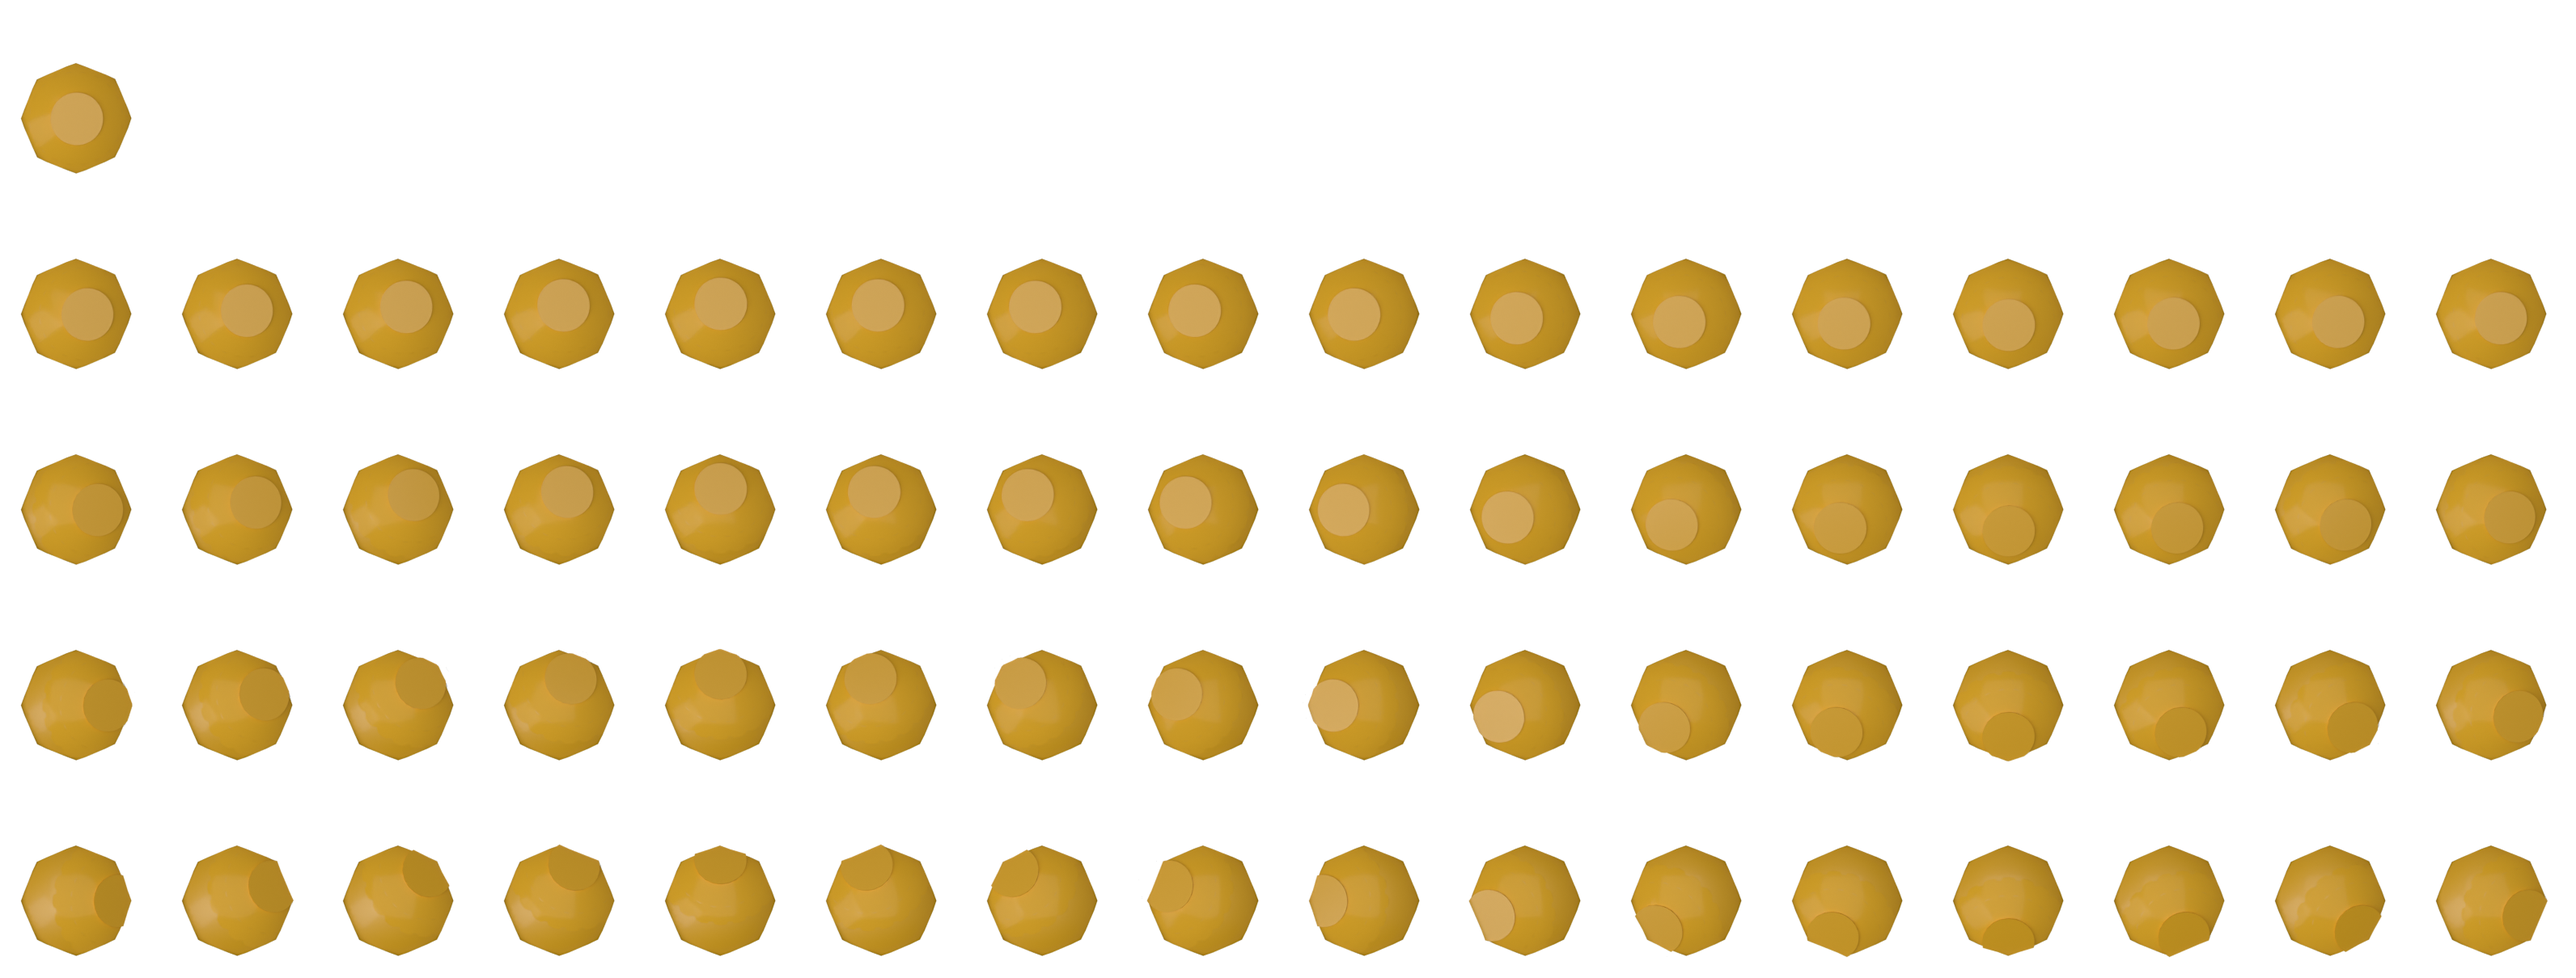
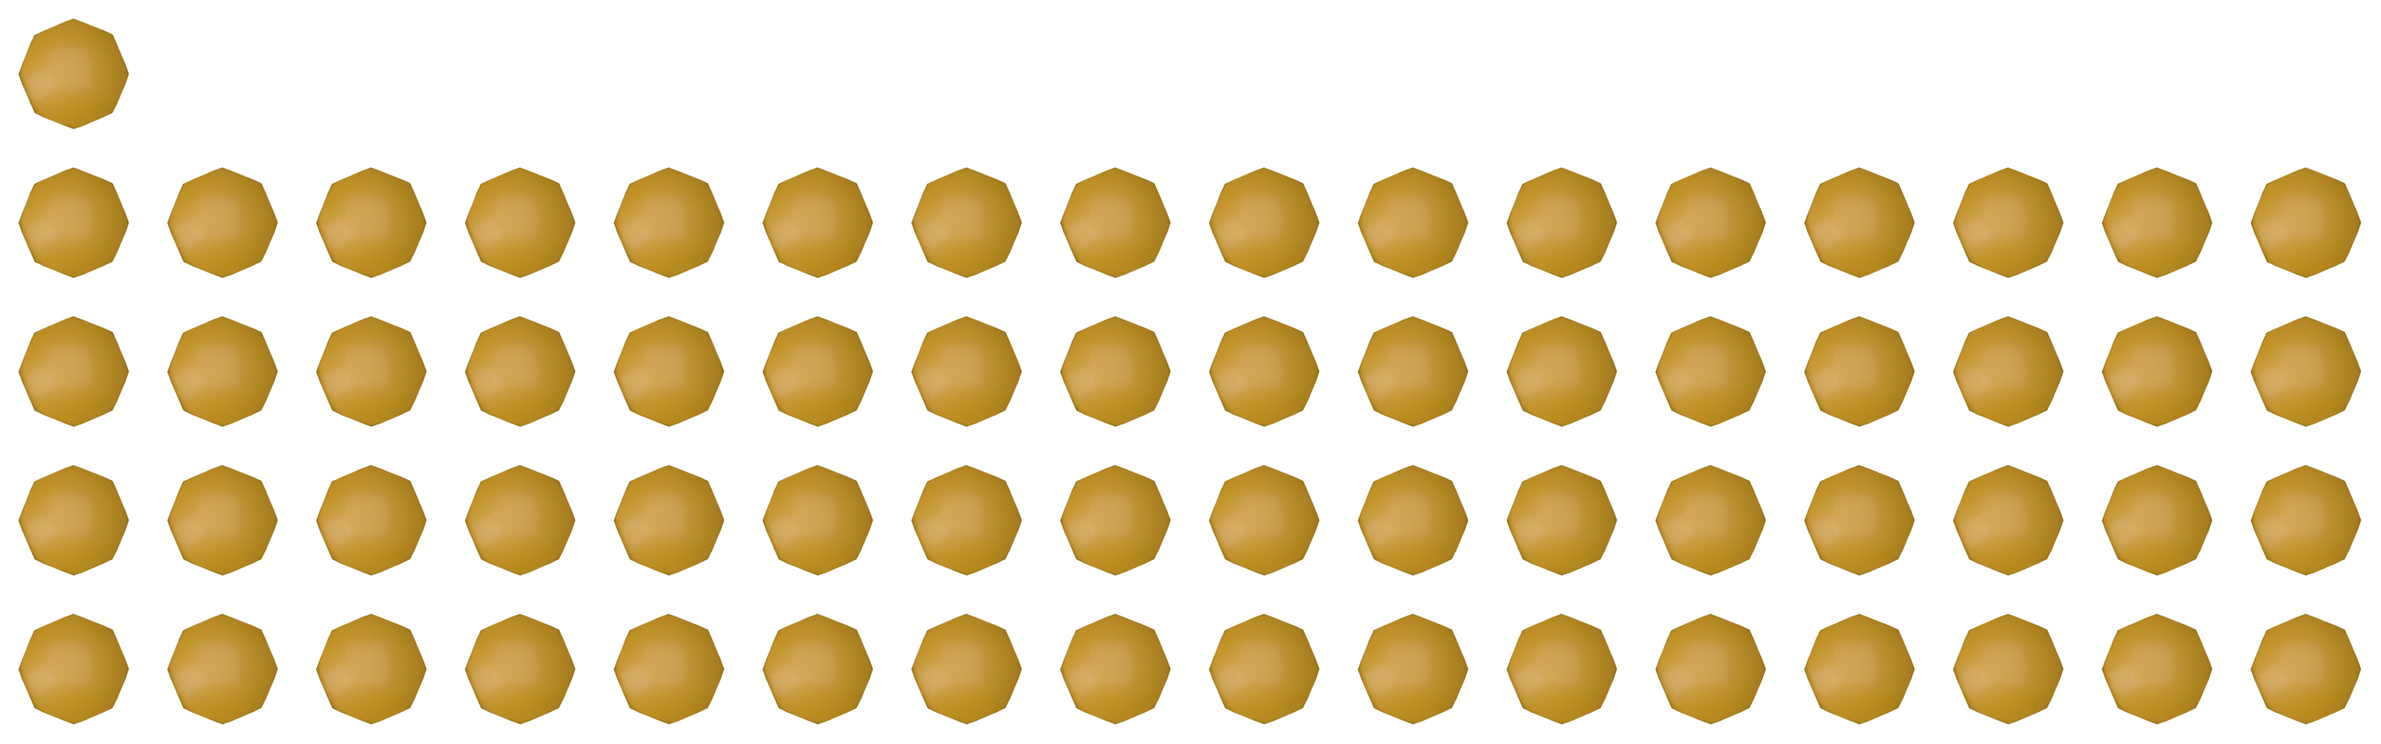
Settings: sticks on one smooth sphere, with no shadows to flicker
Under each cap the frames showed the model's own faceted skirt patched onto
the sphere added below it, shaded unevenly where they met, and the shadows of
the stick on the body changed from frame to frame, so blending frames made
them flicker. render_top.py now renders one whole sphere per stick (centred on
its pivot, meeting the stem where it starts), the cap without its skirt, and
the body as a holdout (it still hides what the shell covers, with nothing drawn
on it): the dome layer is the same in every frame and only the cap moves.
Settings also draws the sticks this way when they are still, instead of the
whole picture, whose model domes looked different from the moving ones.

diff --git a/tools/padconfig/art/render_top.py b/tools/padconfig/art/render_top.py
@@ -174,7 +174,6 @@ others = [o for o in scene.objects if o.type == 'MESH' and o not in caps.values(
 # sticks/tops.txt. "sticks-test": a few of those frames only. "sticks-tops": no render; writes sticks/tops.txt, where the top of the cap
 # (its middle, at its highest point) is in the picture's pixels in each frame, for art/hotspots.inc (kStickTops).
 CUT_Z = {"main": 21.3, "c": 19.55}  # just above each skirt (it ends at 21.15 and 19.38; the stems go on to 22.5 and 20.8)
-STEM_R = {"main": 1.4, "c": 1.68}  # the stems' radii
 DIRECTIONS, RINGS, MOST_TILT = 16, 4, 25.0
 
 def dome_centre(cap):
@@ -202,8 +201,9 @@ def complete_dome(key, root, radius, cap_bottom):
     bm = bmesh.new()
     bmesh.ops.create_uvsphere(bm, u_segments=96, v_segments=64, radius=radius - 0.03)
     lowest = root.z + (radius - 0.03) * math.cos(math.radians(DOME_REACH)) - root.z
-    keep_top = cap_bottom + 0.8 - root.z  # tucked up under the model's own dome (just inside it): no seam between them
-    bmesh.ops.delete(bm, geom=[v for v in bm.verts if v.co.z > keep_top or v.co.z < lowest], context="VERTS")
+    # The whole sphere down to DOME_REACH: in the stick frames it replaces the model's own low, faceted skirt (one smooth
+    # ball, the same from above at every tilt, so the frames have nothing that changes on it).
+    bmesh.ops.delete(bm, geom=[v for v in bm.verts if v.co.z < lowest], context="VERTS")
     bm.to_mesh(me)
     bm.free()
     dome = bpy.data.objects.new("dome_" + key, me)
@@ -270,55 +270,35 @@ def stick_frames():
                       (min(c.y for c in disc) + max(c.y for c in disc)) / 2.0, hi))
         top_local[key] = cap.matrix_world.inverted() @ top
         print("TOP", key, tuple(round(v, 2) for v in top), len(disc), "vertices")
-    # Each cap in two parts, cut across its stem just above the flared skirt it stands on (model units above the root at
-    # rest): the skirt, wider than the top and meeting the dome, goes into the dome layer, which is drawn where it is;
-    # the stem and the top into the cap layer, which is moved onto the stick's top. Seen from above, the top covers the cut.
-    # A material each that shows one part (the other transparent): object coordinates, so the cut turns with the cap.
-    part_mats = {}
+    # Each cap without its skirt: cut across its stem just above the skirt (model units above the root at rest; the
+    # dome's sphere meets the stem there), the part below a holdout. Object coordinates, so the cut turns with the cap.
+    top_mats = {}
     for key, cap in caps.items():
         inverse = cap.matrix_world.inverted()
         point = inverse @ Vector((domes_wanted[key][0].x, domes_wanted[key][0].y, CUT_Z[key]))
         normal = (inverse.to_3x3() @ Vector((0.0, 0.0, 1.0))).normalized()
-        part_mats[key] = {}
-        for part in ("skirt", "top"):
-            m = stick_mat.copy()
-            m.name = "Stick %s %s" % (key, part)
-            nodes, links = m.node_tree.nodes, m.node_tree.links
-            out_node = nodes["Material Output"]
-            surface = out_node.inputs["Surface"].links[0].from_socket
-            coords = nodes.new("ShaderNodeTexCoord")
-            dot = nodes.new("ShaderNodeVectorMath")
-            dot.operation = "DOT_PRODUCT"
-            dot.inputs[1].default_value = normal
-            links.new(coords.outputs["Object"], dot.inputs[0])
-            above = nodes.new("ShaderNodeMath")
-            above.operation = "GREATER_THAN"
-            links.new(dot.outputs["Value"], above.inputs[0])
-            above.inputs[1].default_value = normal.dot(point)
-            mix = nodes.new("ShaderNodeMixShader")
-            # Cut away: transparent in the dome layer (the top above the skirt); a holdout in the cap layer, so nothing behind
-            # the skirt (the shadow inside it) shows through.
-            clear = nodes.new("ShaderNodeBsdfTransparent" if part == "skirt" else "ShaderNodeHoldout")
-            links.new(above.outputs["Value"], mix.inputs["Fac"])
-            # Fac 1 (above the cut) takes the second shader.
-            links.new(surface if part == "skirt" else clear.outputs[0], mix.inputs[1])
-            links.new(clear.outputs[0] if part == "skirt" else surface, mix.inputs[2])
-            links.new(mix.outputs[0], out_node.inputs["Surface"])
-            part_mats[key][part] = m
-    # The cut stem is open: in the dome layer a lid closes it, so where the cap layer is moved a little off its frame the
-    # stick's own colour shows round the stem, not the dark inside.
-    lids = {}
-    for key in caps:
-        root = domes_wanted[key][0]
-        bpy.ops.mesh.primitive_circle_add(vertices=48, fill_type="NGON", radius=STEM_R[key] + 0.02,
-                                          location=(root.x, root.y, CUT_Z[key]))
-        lid = bpy.context.active_object
-        lid.data.materials.append(domes[key].data.materials[0])  # the dome's: the plastic's plain colour
-        lid.visible_shadow = False
-        world = lid.matrix_world.copy()
-        lid.parent, lid.parent_type, lid.parent_bone = rig, "BONE", key
-        lid.matrix_world = world
-        lids[key] = lid
+        m = stick_mat.copy()
+        m.name = "Stick %s top" % key
+        nodes, links = m.node_tree.nodes, m.node_tree.links
+        out_node = nodes["Material Output"]
+        surface = out_node.inputs["Surface"].links[0].from_socket
+        coords = nodes.new("ShaderNodeTexCoord")
+        dot = nodes.new("ShaderNodeVectorMath")
+        dot.operation = "DOT_PRODUCT"
+        dot.inputs[1].default_value = normal
+        links.new(coords.outputs["Object"], dot.inputs[0])
+        above = nodes.new("ShaderNodeMath")
+        above.operation = "GREATER_THAN"
+        links.new(dot.outputs["Value"], above.inputs[0])
+        above.inputs[1].default_value = normal.dot(point)
+        mix = nodes.new("ShaderNodeMixShader")
+        cut = nodes.new("ShaderNodeHoldout")
+        links.new(above.outputs["Value"], mix.inputs["Fac"])
+        links.new(cut.outputs[0], mix.inputs[1])  # Fac 0: below the cut
+        links.new(surface, mix.inputs[2])  # Fac 1: above it
+        links.new(mix.outputs[0], out_node.inputs["Surface"])
+        top_mats[key] = m
+        cap.data.materials[0] = m
     scene.render.use_border = True
     scene.render.use_crop_to_border = True
     for key, cap in caps.items():
@@ -328,8 +308,10 @@ def stick_frames():
         for o in scene.objects:
             if o.type == 'MESH':
                 o.hide_render = (o in caps.values() and o is not cap) or (o in domes.values() and o is not domes[key])
-                o.is_holdout = False
-                o.is_shadow_catcher = o in others and o not in domes.values()
+                # The body: a holdout. It hides what the shell covers, and nothing is drawn on it: no shadow of the
+                # stick, which would change from frame to frame and flicker where the program blends them.
+                o.is_holdout = o in others
+                o.is_shadow_catcher = False
         pose = rig.pose.bones[key]
         pose.rotation_mode = 'QUATERNION'
         rest = rig.data.bones[key].matrix_local.to_3x3()
@@ -356,20 +338,17 @@ def stick_frames():
             if only == "sticks-tops":
                 continue
             # Two layers, so the program can move the cap onto the stick's top while the dome below stays where it is:
-            # the dome and the cap's skirt with their shadows, then the cap's stem and top with theirs (the dome a
-            # holdout: where it is in front, the dome layer shows through).
+            # the dome (without the cap: its cut-away part is a holdout, which would show through even unseen), then the
+            # cap's stem and top (the dome a holdout: where it is in front, the dome layer shows through).
             for layer in ("dome", "cap"):
-                cap.data.materials[0] = part_mats[key]["top" if layer == "cap" else "skirt"]
-                for k, lid in lids.items():
-                    lid.hide_render = k != key or layer == "cap"
+                cap.hide_render = layer == "dome"
                 domes[key].is_holdout = layer == "cap"
                 domes[key].visible_shadow = layer == "dome"
                 scene.render.filepath = os.path.join(out, "sticks", name if layer == "dome" else "cap_" + name)
                 bpy.ops.render.render(write_still=True)
             domes[key].is_holdout = False
             domes[key].visible_shadow = True
-            cap.data.materials[0] = stick_mat
-            cap.visible_camera = domes[key].visible_camera = True
+            cap.hide_render = False
         pose.rotation_quaternion = Quaternion()
     with open(os.path.join(out, "sticks", "tops.txt"), "w") as fh:
         fh.write("\n".join(tops) + "\n")

diff --git a/tools/padconfig/controller_view.cpp b/tools/padconfig/controller_view.cpp
@@ -318,9 +318,9 @@ struct Painter {
     }    void draw_pictures() {
         g.SetInterpolationMode(InterpolationModeHighQualityBicubic);
         g.SetPixelOffsetMode(PixelOffsetModeHalf);
-        // Still sticks: the whole picture. A tilted one: the body without its caps, and the caps where the sticks are.
-        const bool tilted = v.main_x != 0.0f || v.main_y != 0.0f || v.c_x != 0.0f || v.c_y != 0.0f;
-        Bitmap* body = tilted ? art(kTopBodyId) : nullptr;
+        // The body without its caps, and the caps where the sticks are, still or not: the whole picture (art 101) has
+        // the model's own stick domes, so switching to it at rest would change the sticks' look as they stop.
+        Bitmap* body = art(kTopBodyId);
         if (body != nullptr) {
             g.DrawImage(body, top_rect(m));
             draw_cap(kStickCaps[0], 0, v.main_x, v.main_y);
